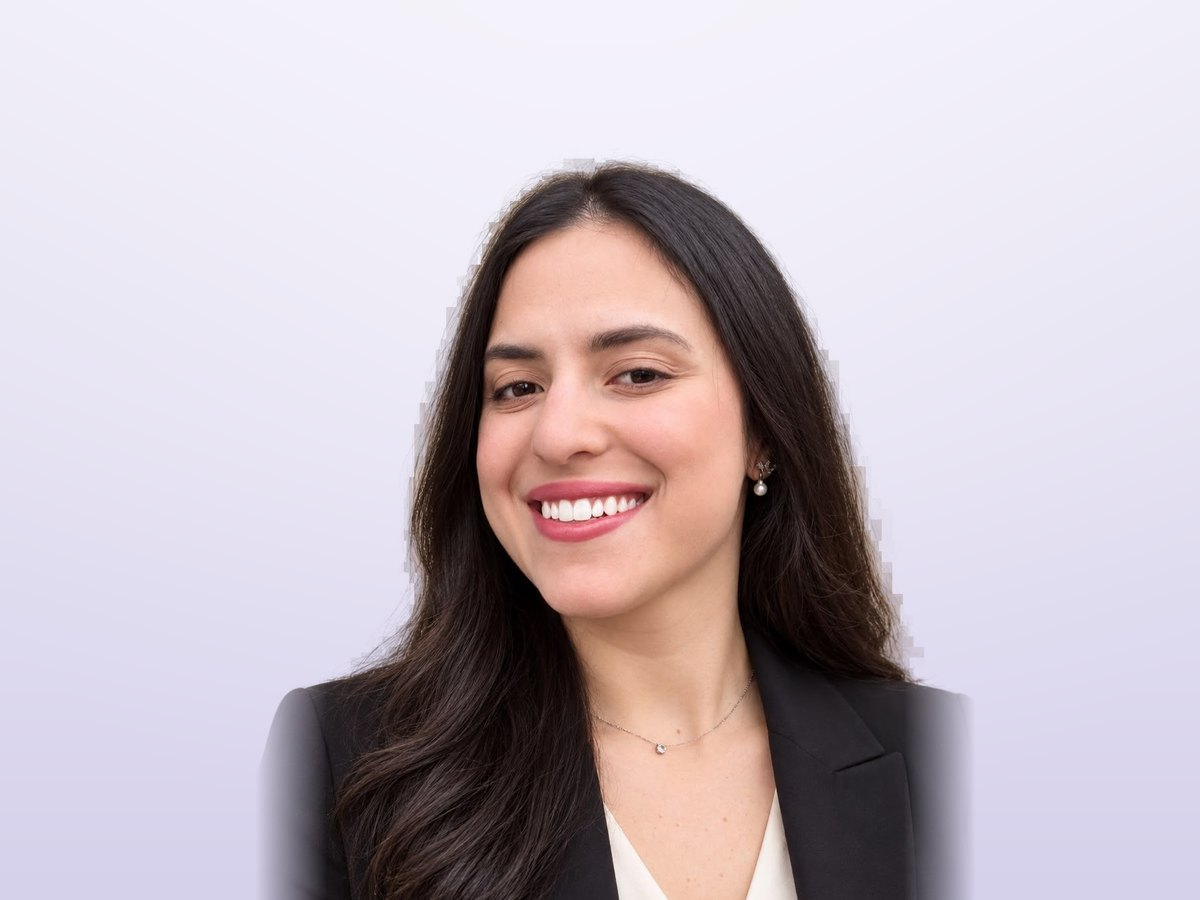
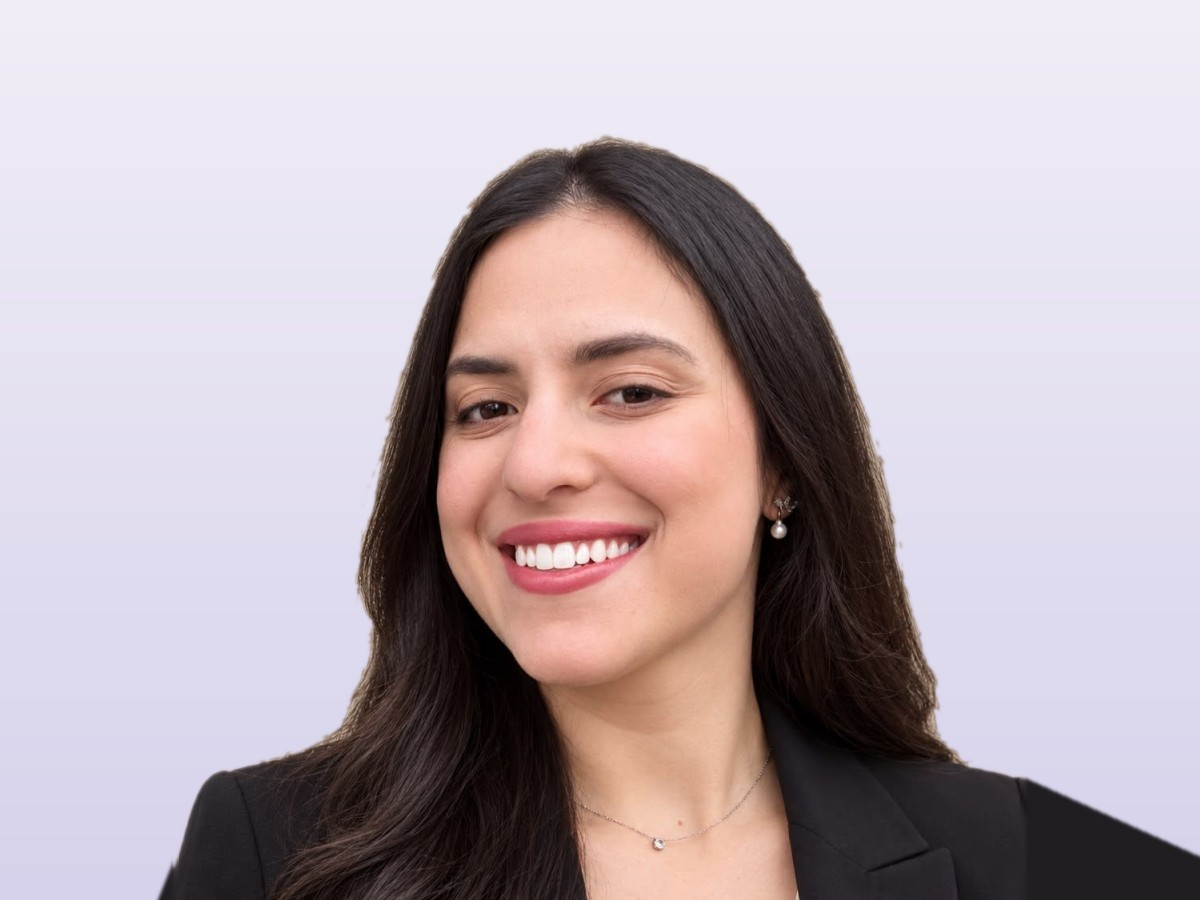
Team: new Adi photo on site background, Adi in the middle
Claude-Session: https://claude.ai/code/session_012xQ931LWPpHhNdGDAsnc3i

Changed region(s): [[0.1233, 0.1244, 1.0, 1.0]]

diff --git a/download/the-board-landing.html b/download/the-board-landing.html
@@ -577,8 +577,8 @@ footer .mark{margin:0}
     </div>
     <div class="team">
       <div class="tm reveal"><div class="ph photo"><img src="/images/noam.jpg?v=2" alt="נועם רז" width="1200" height="900" loading="lazy" decoding="async"></div><div class="body"><span class="role">Co-Founder</span><b>נועם רז</b><p>בעלים ומנכ״ל English Express, שמלווה אנשי הייטק ובכירים לדבר אנגלית עסקית בביטחון.</p><p>מחובר לעולמות האימון וההתפתחות האישית, אוהב להיות מופתע ולעזור לאנשים להפתיע את עצמם.</p><p>מפיק ערבי יזמים, אוהב ללמוד שפות ואילף את החתול שלו לעשות דברים שצריך לראות כדי להאמין.</p><a class="ig" href="https://www.instagram.com/noamroz__/" target="_blank" rel="noopener"><svg viewBox="0 0 24 24" width="18" height="18" aria-hidden="true" fill="none" stroke="currentColor" stroke-width="2"><rect x="3" y="3" width="18" height="18" rx="5"></rect><circle cx="12" cy="12" r="4"></circle><circle cx="17.5" cy="6.5" r="1" fill="currentColor" stroke="none"></circle></svg><span dir="ltr">@noamroz__</span></a></div></div>
+      <div class="tm reveal"><div class="ph photo"><img src="/images/adi.jpg?v=3" alt="עדי חסדאי צרויה" width="1200" height="900" loading="lazy" decoding="async"></div><div class="body"><span class="role">Co-Founder</span><b>עדי חסדאי צרויה</b><p>יזמת E-commerce, בעלים ומנכ״לית של שוגליז, אתר מתנות לשוק הפרטי והעסקי.</p><p>אוהבת לבנות דברים מאפס, לחשוב בגדול ולהפוך רעיונות למציאות. מתעניינת בהשקעות ונדל״ן, התפתחות אישית ואופנה, מאוהבת בים ובטיסות ליעדים אקזוטיים.</p><p>אני מאמינה שעסק יכול לצמוח רק עד לאן שהאדם שמוביל אותו מוכן לצמוח, ושהמאיץ הכי גדול להצלחה הוא האנשים שאנחנו פוגשים בדרך.</p></div></div>
       <div class="tm reveal"><div class="ph photo"><img src="/images/ethan.jpg?v=2" alt="איתן וולוביץ׳" width="1200" height="900" loading="lazy" decoding="async"></div><div class="body"><span class="role">Co-Founder</span><b>איתן וולוביץ׳</b><p>רואה חשבון, בעלים ומנכ״ל VOLCO, חברת השקעות נדל״ן בקפריסין המלווה משקיעים ישראלים ברכישה, השכרה וניהול של דירות מניבות.</p><p>משלב את הראייה הפיננסית של רואה חשבון עם הניסיון של מי שבנה ומנהל עסק בעצמו. ניתוח דוחות, תמחור, תזרים ובחינת כדאיות הם השפה המקצועית שלו.</p><p>מאמין שמספרים מדויקים הם הבסיס להחלטות טובות, ושמאחורי כל עסק עומדים אנשים. ב-The Board הוא מביא לשולחן את הכלים הפיננסיים שמאפשרים לכל משתתף לנהל את העסק מתוך שליטה.</p></div></div>
-      <div class="tm reveal"><div class="ph photo"><img src="/images/adi.jpg?v=2" alt="עדי חסדאי צרויה" width="1200" height="900" loading="lazy" decoding="async"></div><div class="body"><span class="role">Co-Founder</span><b>עדי חסדאי צרויה</b><p>יזמת E-commerce, בעלים ומנכ״לית של שוגליז, אתר מתנות לשוק הפרטי והעסקי.</p><p>אוהבת לבנות דברים מאפס, לחשוב בגדול ולהפוך רעיונות למציאות. מתעניינת בהשקעות ונדל״ן, התפתחות אישית ואופנה, מאוהבת בים ובטיסות ליעדים אקזוטיים.</p><p>אני מאמינה שעסק יכול לצמוח רק עד לאן שהאדם שמוביל אותו מוכן לצמוח, ושהמאיץ הכי גדול להצלחה הוא האנשים שאנחנו פוגשים בדרך.</p></div></div>
     </div>
     <div class="cta-row"><a class="btn gold" href="#join">לשיחת היכרות איתנו<span class="arr"><svg><use href="#arr"/></svg></span></a></div>
   </div>

diff --git a/index.html b/index.html
@@ -577,8 +577,8 @@ footer .mark{margin:0}
     </div>
     <div class="team">
       <div class="tm reveal"><div class="ph photo"><img src="/images/noam.jpg?v=2" alt="נועם רז" width="1200" height="900" loading="lazy" decoding="async"></div><div class="body"><span class="role">Co-Founder</span><b>נועם רז</b><p>בעלים ומנכ״ל English Express, שמלווה אנשי הייטק ובכירים לדבר אנגלית עסקית בביטחון.</p><p>מחובר לעולמות האימון וההתפתחות האישית, אוהב להיות מופתע ולעזור לאנשים להפתיע את עצמם.</p><p>מפיק ערבי יזמים, אוהב ללמוד שפות ואילף את החתול שלו לעשות דברים שצריך לראות כדי להאמין.</p><a class="ig" href="https://www.instagram.com/noamroz__/" target="_blank" rel="noopener"><svg viewBox="0 0 24 24" width="18" height="18" aria-hidden="true" fill="none" stroke="currentColor" stroke-width="2"><rect x="3" y="3" width="18" height="18" rx="5"></rect><circle cx="12" cy="12" r="4"></circle><circle cx="17.5" cy="6.5" r="1" fill="currentColor" stroke="none"></circle></svg><span dir="ltr">@noamroz__</span></a></div></div>
+      <div class="tm reveal"><div class="ph photo"><img src="/images/adi.jpg?v=3" alt="עדי חסדאי צרויה" width="1200" height="900" loading="lazy" decoding="async"></div><div class="body"><span class="role">Co-Founder</span><b>עדי חסדאי צרויה</b><p>יזמת E-commerce, בעלים ומנכ״לית של שוגליז, אתר מתנות לשוק הפרטי והעסקי.</p><p>אוהבת לבנות דברים מאפס, לחשוב בגדול ולהפוך רעיונות למציאות. מתעניינת בהשקעות ונדל״ן, התפתחות אישית ואופנה, מאוהבת בים ובטיסות ליעדים אקזוטיים.</p><p>אני מאמינה שעסק יכול לצמוח רק עד לאן שהאדם שמוביל אותו מוכן לצמוח, ושהמאיץ הכי גדול להצלחה הוא האנשים שאנחנו פוגשים בדרך.</p></div></div>
       <div class="tm reveal"><div class="ph photo"><img src="/images/ethan.jpg?v=2" alt="איתן וולוביץ׳" width="1200" height="900" loading="lazy" decoding="async"></div><div class="body"><span class="role">Co-Founder</span><b>איתן וולוביץ׳</b><p>רואה חשבון, בעלים ומנכ״ל VOLCO, חברת השקעות נדל״ן בקפריסין המלווה משקיעים ישראלים ברכישה, השכרה וניהול של דירות מניבות.</p><p>משלב את הראייה הפיננסית של רואה חשבון עם הניסיון של מי שבנה ומנהל עסק בעצמו. ניתוח דוחות, תמחור, תזרים ובחינת כדאיות הם השפה המקצועית שלו.</p><p>מאמין שמספרים מדויקים הם הבסיס להחלטות טובות, ושמאחורי כל עסק עומדים אנשים. ב-The Board הוא מביא לשולחן את הכלים הפיננסיים שמאפשרים לכל משתתף לנהל את העסק מתוך שליטה.</p></div></div>
-      <div class="tm reveal"><div class="ph photo"><img src="/images/adi.jpg?v=2" alt="עדי חסדאי צרויה" width="1200" height="900" loading="lazy" decoding="async"></div><div class="body"><span class="role">Co-Founder</span><b>עדי חסדאי צרויה</b><p>יזמת E-commerce, בעלים ומנכ״לית של שוגליז, אתר מתנות לשוק הפרטי והעסקי.</p><p>אוהבת לבנות דברים מאפס, לחשוב בגדול ולהפוך רעיונות למציאות. מתעניינת בהשקעות ונדל״ן, התפתחות אישית ואופנה, מאוהבת בים ובטיסות ליעדים אקזוטיים.</p><p>אני מאמינה שעסק יכול לצמוח רק עד לאן שהאדם שמוביל אותו מוכן לצמוח, ושהמאיץ הכי גדול להצלחה הוא האנשים שאנחנו פוגשים בדרך.</p></div></div>
     </div>
     <div class="cta-row"><a class="btn gold" href="#join">לשיחת היכרות איתנו<span class="arr"><svg><use href="#arr"/></svg></span></a></div>
   </div>
